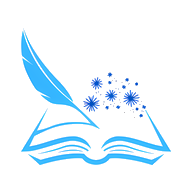
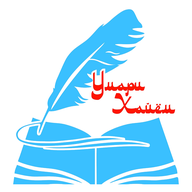
Новый логотип: в шапке сайта и в иконках приложения

diff --git a/sw.js b/sw.js
@@ -1,8 +1,8 @@
 // Умари Хайём — сервис-воркер.
 // Страница: всегда пытаемся взять свежую из сети; если сеть не ответила за 3 секунды — показываем сохранённую копию.
 // Фото, миниатюры, иконки, шрифты: качаются один раз и дальше берутся из памяти телефона.
-var CACHE = "uh-app-v6", IMG = "uh-img-v1";
-var CORE = ["manifest.json", "favicon.ico", "icon-32.png", "icon-16.png", "icon-192.png", "icon-512.png", "icon-maskable-512.png", "apple-touch-icon.png"];
+var CACHE = "uh-app-v7", IMG = "uh-img-v1";
+var CORE = ["manifest.json", "favicon.ico", "icon-32.png", "icon-16.png", "icon-192.png", "icon-512.png", "icon-maskable-512.png", "apple-touch-icon.png", "logo.png"];
 self.addEventListener("install", function (e) {
   e.waitUntil(caches.open(CACHE).then(function (c) { return c.addAll(CORE); }).catch(function () {}).then(function () { return self.skipWaiting(); }));
 });

diff --git a/index.html b/index.html
@@ -777,7 +777,7 @@ body:has(#bar:not([hidden])) .stb{bottom:calc(84px + env(safe-area-inset-bottom,
 </style>
 
 <header class="hd"><div class="hdi">
-<a class="logo" href="#top">Умари Хайём<b>.</b></a>
+<a class="logo" href="#top" aria-label="Умари Хайём"><img src="logo.png" alt="Умари Хайём" style="height:48px;width:auto;display:block"></a>
 <nav class="nv" aria-label="Разделы"><a href="#catalog">Каталог</a><a href="#how">Как заказать</a><a href="#contacts">Контакты</a></nav>
 <div class="acts">
 <button class="ib" id="pwab" data-pw="i" aria-label="Установить приложение" title="Установить приложение" hidden><svg viewBox="0 0 24 24" fill="none" stroke="currentColor" stroke-width="2" stroke-linecap="round" stroke-linejoin="round"><rect x="6" y="2" width="12" height="20" rx="2.5"/><path d="M12 7v7M9 11l3 3 3-3"/><path d="M10.5 18.5h3"/></svg></button>

diff --git a/privacy.html b/privacy.html
@@ -33,7 +33,7 @@ a{color:var(--accent)}
 </head>
 <body>
 <div class="wrap">
-<header><a class="logo" href="index.html">Умари Хайём<span>.</span></a></header>
+<header><a class="logo" href="index.html" aria-label="Умари Хайём"><img src="logo.png" alt="Умари Хайём" style="height:48px;width:auto;display:block"></a></header>
 
 <h1>Политика конфиденциальности</h1>
 <p class="date">Редакция от 20 октября 2026 г.</p>

diff --git a/terms.html b/terms.html
@@ -31,7 +31,7 @@ a{color:var(--accent)}
 </head>
 <body>
 <div class="wrap">
-<header><a class="logo" href="index.html">Умари Хайём<span>.</span></a></header>
+<header><a class="logo" href="index.html" aria-label="Умари Хайём"><img src="logo.png" alt="Умари Хайём" style="height:48px;width:auto;display:block"></a></header>
 
 <h1>Условия использования</h1>
 <p class="date">Редакция от 20 октября 2026 г.</p>

diff --git a/delivery.html b/delivery.html
@@ -33,7 +33,7 @@ a{color:var(--accent)}
 </head>
 <body>
 <div class="wrap">
-<header><a class="logo" href="index.html">Умари Хайём<span>.</span></a></header>
+<header><a class="logo" href="index.html" aria-label="Умари Хайём"><img src="logo.png" alt="Умари Хайём" style="height:48px;width:auto;display:block"></a></header>
 
 <h1>Доставка и оплата</h1>
 

diff --git a/returns.html b/returns.html
@@ -32,7 +32,7 @@ a{color:var(--accent)}
 </head>
 <body>
 <div class="wrap">
-<header><a class="logo" href="index.html">Умари Хайём<span>.</span></a></header>
+<header><a class="logo" href="index.html" aria-label="Умари Хайём"><img src="logo.png" alt="Умари Хайём" style="height:48px;width:auto;display:block"></a></header>
 
 <h1>Возврат и обмен</h1>
 
